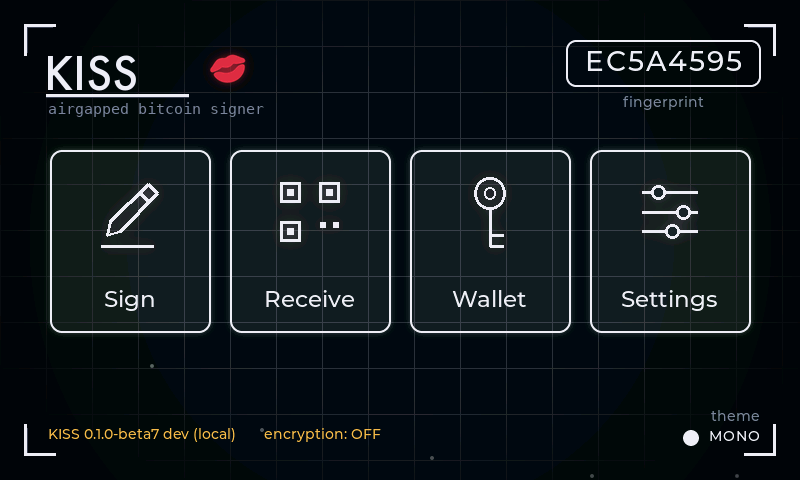
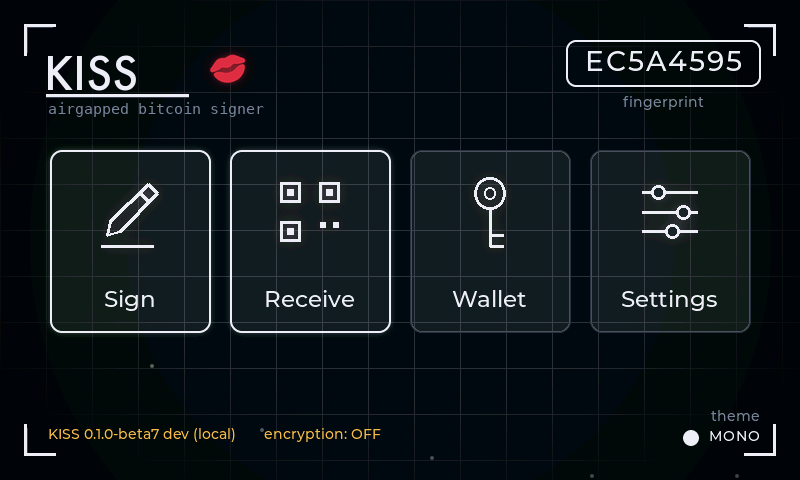
home: SIGN and RECEIVE wear the accent, WALLET and SETTINGS wear muted chrome
Implements HANDOFF-05, without touching the bake. Four equal tiles said
four equal things; two are daily verbs and two are cupboards you open
occasionally, and SETTINGS carried the same weight as SIGN.

The change lives in main.c only. s_card_frame[0] and [1] (SIGN, RECEIVE)
keep the full accent treatment: 2px border, 18px shadow glow, painted
by wallet_home_restyle in the active accent. s_card_frame[2] and [3]
(WALLET, SETTINGS) drop to a 1px WT_EDGE border and no shadow at all.
Same geometry, same 26 opacity glass wash, same baked art underneath;
the strips are RGB565A8 images that stay as they are because dimming
them means regenerating the bake, and the point of doing this in the
live chrome was to leave the pipeline alone.

The alternative the review drew was half-height tiles for WALLET and
SETTINGS. That is spatial hierarchy, and it means a new bake, four
regenerated label strips, four moved hitboxes, and every published home
frame reshot. Emphasis achieves the same "find SIGN and RECEIVE
immediately" goal for a fraction of that. Kept the exact drawn geometry
in HANDOFF-05's "If the art is ever reshot" section, so a future reshot
has one place to look.

Two ADDENDUM-02 rules apply and both hold: the accent lives on primary
elements only (SIGN, RECEIVE tiles now, plus fingerprint chip / theme
tag / corner brackets / title underline unchanged), and no element
carries accent and status colour at once.
[…]

Changed region(s): [[0.5, 0.3125, 0.9375, 0.7188], [0.75, 0.6875, 0.9375, 0.7188]]

diff --git a/main/main.c b/main/main.c
@@ -1291,9 +1291,10 @@ static void wallet_home_restyle(void) {
   }
   for (int i = 0; i < 4; i++) {
     if (s_card_frame[i]) {
-      lv_obj_set_style_border_color(s_card_frame[i], ac, 0);
+      bool primary = (i == 0 || i == 1);          // SIGN, RECEIVE per HANDOFF-05
+      lv_obj_set_style_border_color(s_card_frame[i], primary ? ac : WT_EDGE, 0);
       lv_obj_set_style_bg_color(s_card_frame[i], ac, 0);
-      lv_obj_set_style_shadow_color(s_card_frame[i], ac, 0);
+      if (primary) lv_obj_set_style_shadow_color(s_card_frame[i], ac, 0);
     }
     if (s_corner[i]) lv_obj_set_style_border_color(s_corner[i], ac, 0);
   }
@@ -2060,16 +2061,29 @@ void build_game(void) {  // non-static: the simulator harness calls this too
   // (wallet_mock.py live_frames): card frames + wash, corner brackets, title
   // underline, chip frame, theme tag. wallet_home_restyle() paints them in the
   // active accent, so switching themes recolors the home with zero re-bake.
+  //
+  // Two-tier weight, per HANDOFF-05. SIGN and RECEIVE are the two daily verbs
+  // and keep the full treatment: accent border at 2px plus the 18px glow.
+  // WALLET and SETTINGS are cupboards you open occasionally, so they take a
+  // 1px WT_EDGE border and no glow. The strips themselves stay as they are:
+  // they are RGB565A8 images and dimming them means regenerating the bake,
+  // which is the pipeline this decision exists to avoid. The frame difference
+  // reads as the tile because the strips sit inside the frames.
   for (int i = 0; i < 4; i++) {
+    bool primary = (i == 0 || i == 1);              // SIGN, RECEIVE
     lv_obj_t *c = lv_obj_create(s_wallet);
     lv_obj_remove_style_all(c);
     lv_obj_set_pos(c, 50 + i * 180, 150);
     lv_obj_set_size(c, 161, 183);
     lv_obj_set_style_radius(c, 12, 0);
-    lv_obj_set_style_border_width(c, 2, 0);
+    lv_obj_set_style_border_width(c, primary ? 2 : 1, 0);
     lv_obj_set_style_bg_opa(c, 26, 0);              // glass wash; icons stay readable
-    lv_obj_set_style_shadow_width(c, 18, 0);        // the baked art's neon glow, live
-    lv_obj_set_style_shadow_opa(c, 70, 0);
+    if (primary) {
+      lv_obj_set_style_shadow_width(c, 18, 0);      // the baked art's neon glow, live
+      lv_obj_set_style_shadow_opa(c, 70, 0);
+    } else {
+      lv_obj_set_style_shadow_opa(c, 0, 0);
+    }
     lv_obj_remove_flag(c, LV_OBJ_FLAG_CLICKABLE);
     s_card_frame[i] = c;
   }
